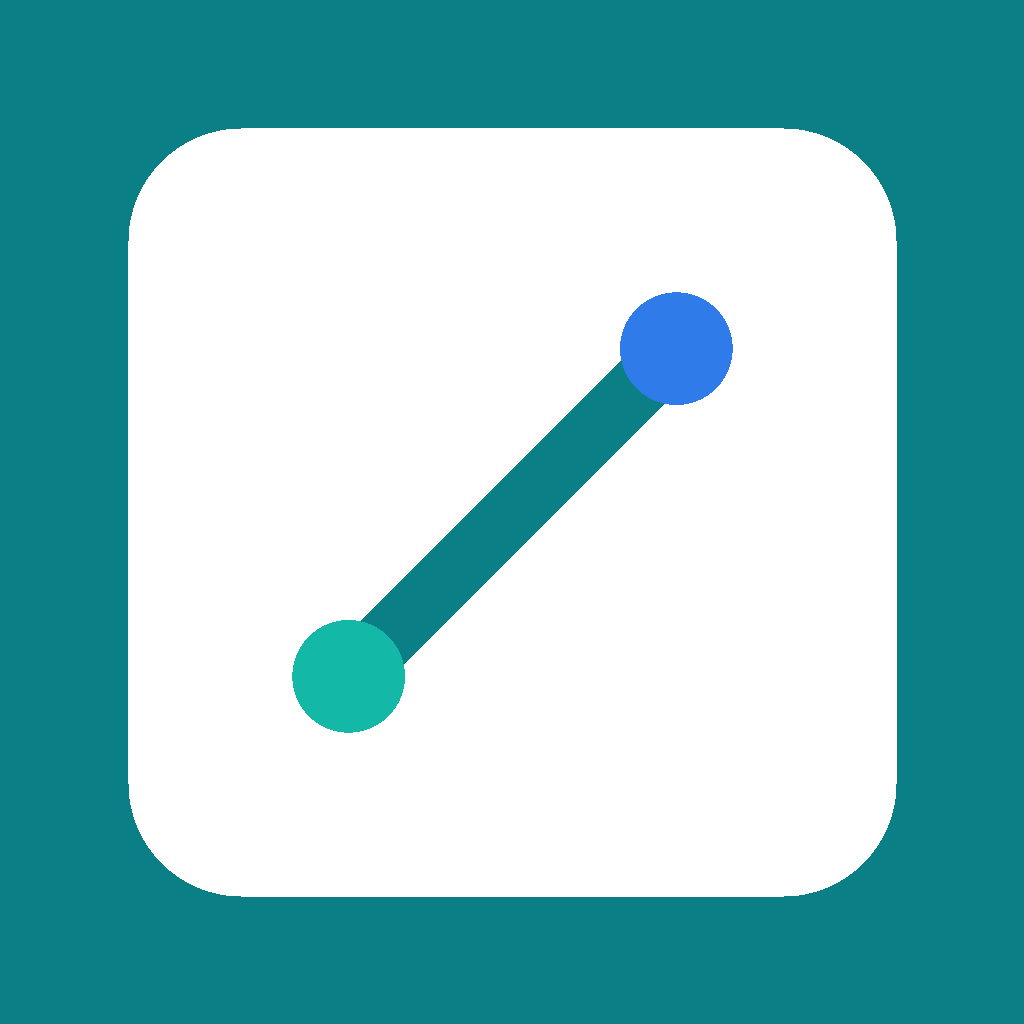
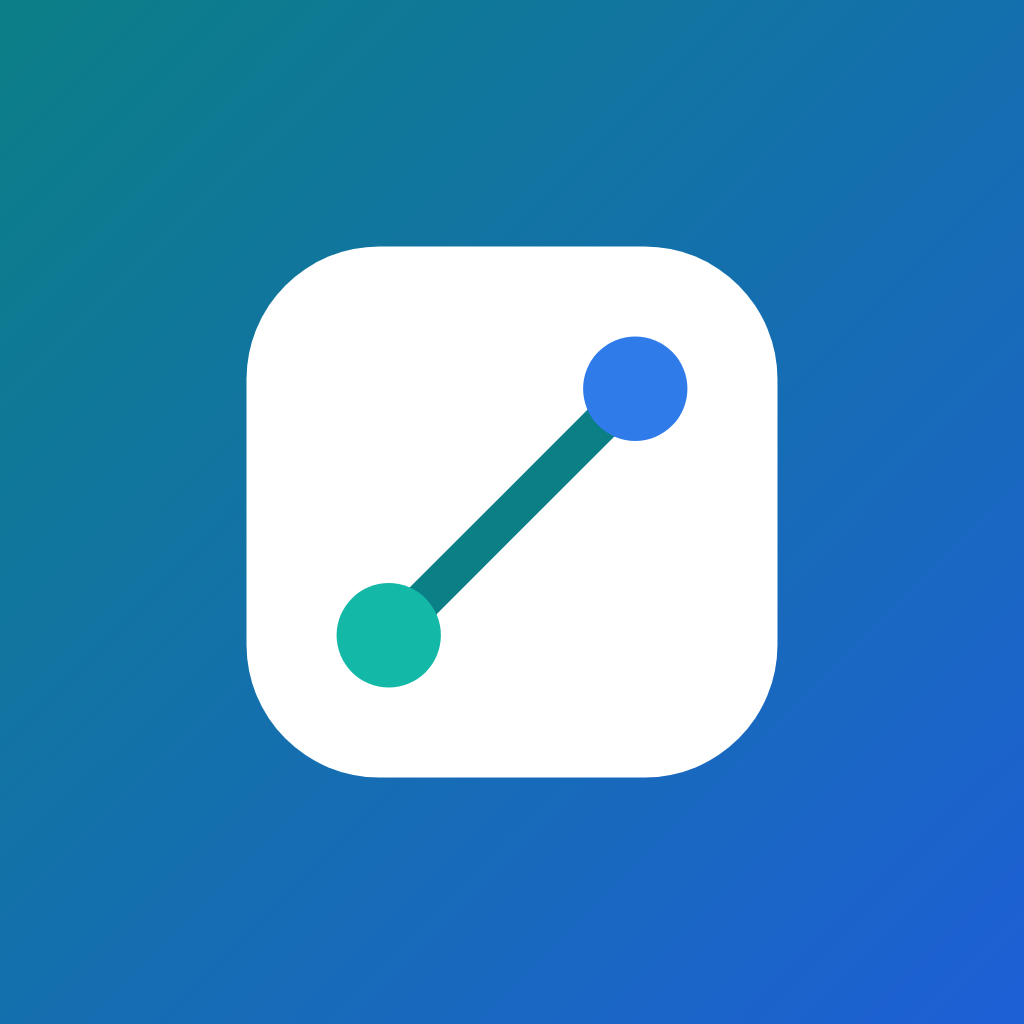
feat(ponsel): ikon adaptif + monokrom, splash Android 12 terang/gelap, ikon notifikasi, draf aset Play
Aset dibuat ulang dari geometri mockup 12-android-native/25-30 lewat
scripts/aset.mjs (Playwright), menggantikan scripts/ikon.py dan
adaptive-icon.png (penghapusan keduanya sudah ikut terbawa di 0c39723).
Ikon notifikasi dipasang lewat plugin withNotificationIcon (nama sumber
daya sama dengan expo-notifications). Draf feature graphic A/B, ikon
Play 512 dan screenshot ponsel/tablet di apps/mobile/store/play.

diff --git a/apps/mobile/plugins/withNotificationIcon.js b/apps/mobile/plugins/withNotificationIcon.js
@@ -1,0 +1,51 @@
+/**
+ * Ikon notifikasi kecil (status bar) + warna aksen, tanpa memasang
+ * `expo-notifications` dulu. Menyalin `assets/notification-icon.png`
+ * (siluet putih + alfa, 96×96) ke `res/drawable-*dpi/notification_icon.png`,
+ * menulis warna `notification_icon_color`, dan meta-data bawaan FCM
+ * (`default_notification_icon` / `default_notification_color`).
+ *
+ * Nama sumber daya dan meta-data sama dengan yang ditulis plugin
+ * `expo-notifications`. Saat paket itu dipasang: hapus plugin ini dari
+ * app.json dan isi `["expo-notifications", { "icon": "./assets/notification-icon.png",
+ * "color": "#0B7F86" }]` — hasil prebuild tetap sama.
+ * Spesifikasi: docs/mockups/android/spec/12-android-native.md §7.1 (berkas 26).
+ */
+const fs = require('fs');
+const path = require('path');
+const { AndroidConfig, withAndroidColors, withAndroidManifest, withDangerousMod } = require('expo/config-plugins');
+
+const NAMA = 'notification_icon';
+const WARNA = 'notification_icon_color';
+const UKURAN = { mdpi: 24, hdpi: 36, xhdpi: 48, xxhdpi: 72, xxxhdpi: 96 };
+
+module.exports = function withNotificationIcon(config, { icon, color }) {
+  config = withDangerousMod(config, [
+    'android',
+    async (cfg) => {
+      const sumber = path.resolve(cfg.modRequest.projectRoot, icon);
+      const res = path.join(cfg.modRequest.platformProjectRoot, 'app/src/main/res');
+      const dasar = path.basename(sumber, '.png');
+      for (const [dpi] of Object.entries(UKURAN)) {
+        // Berkas per densitas `notification-icon-<dpi>.png` bila ada; selain itu PNG 96 px dipakai (Android menskalakan).
+        const khusus = path.join(path.dirname(sumber), `${dasar}-${dpi}.png`);
+        const dir = path.join(res, `drawable-${dpi}`);
+        fs.mkdirSync(dir, { recursive: true });
+        fs.copyFileSync(fs.existsSync(khusus) ? khusus : sumber, path.join(dir, `${NAMA}.png`));
+      }
+      return cfg;
+    },
+  ]);
+
+  config = withAndroidColors(config, (cfg) => {
+    cfg.modResults = AndroidConfig.Colors.assignColorValue(cfg.modResults, { name: WARNA, value: color });
+    return cfg;
+  });
+
+  return withAndroidManifest(config, (cfg) => {
+    const app = AndroidConfig.Manifest.getMainApplicationOrThrow(cfg.modResults);
+    AndroidConfig.Manifest.addMetaDataItemToMainApplication(app, 'com.google.firebase.messaging.default_notification_icon', `@drawable/${NAMA}`, 'resource');
+    AndroidConfig.Manifest.addMetaDataItemToMainApplication(app, 'com.google.firebase.messaging.default_notification_color', `@color/${WARNA}`, 'resource');
+    return cfg;
+  });
+};
